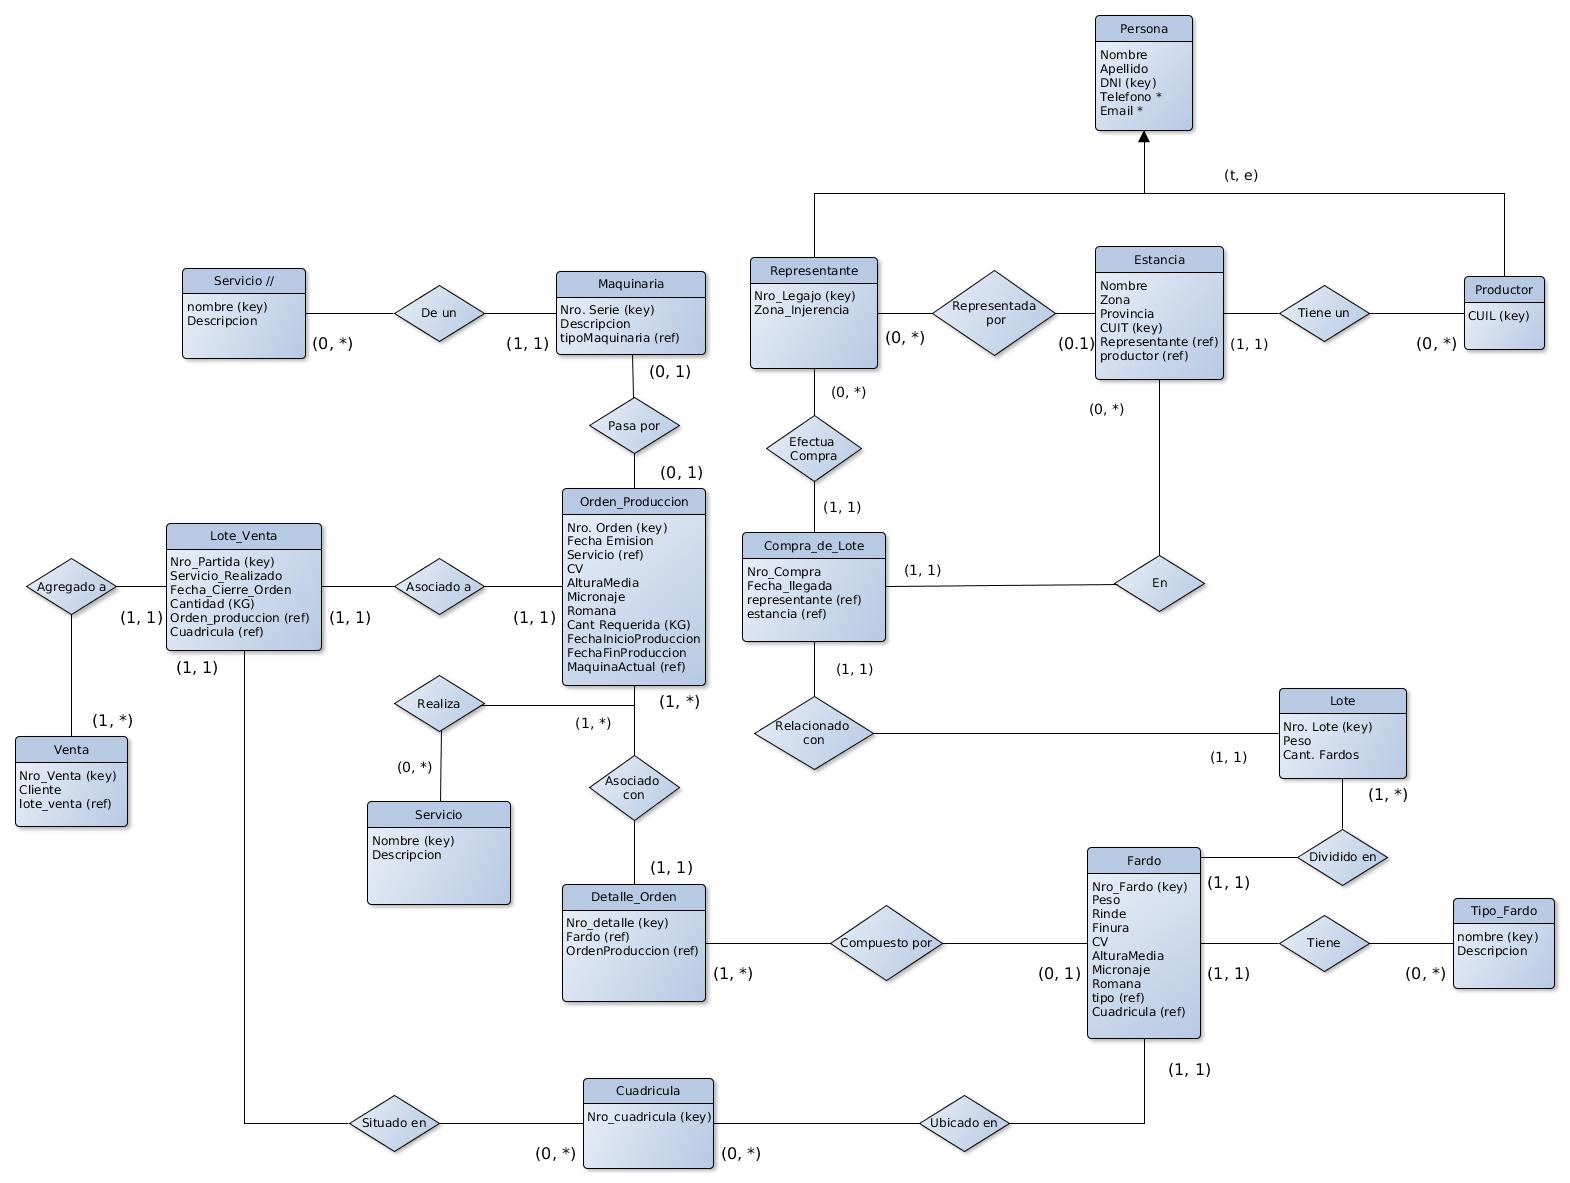
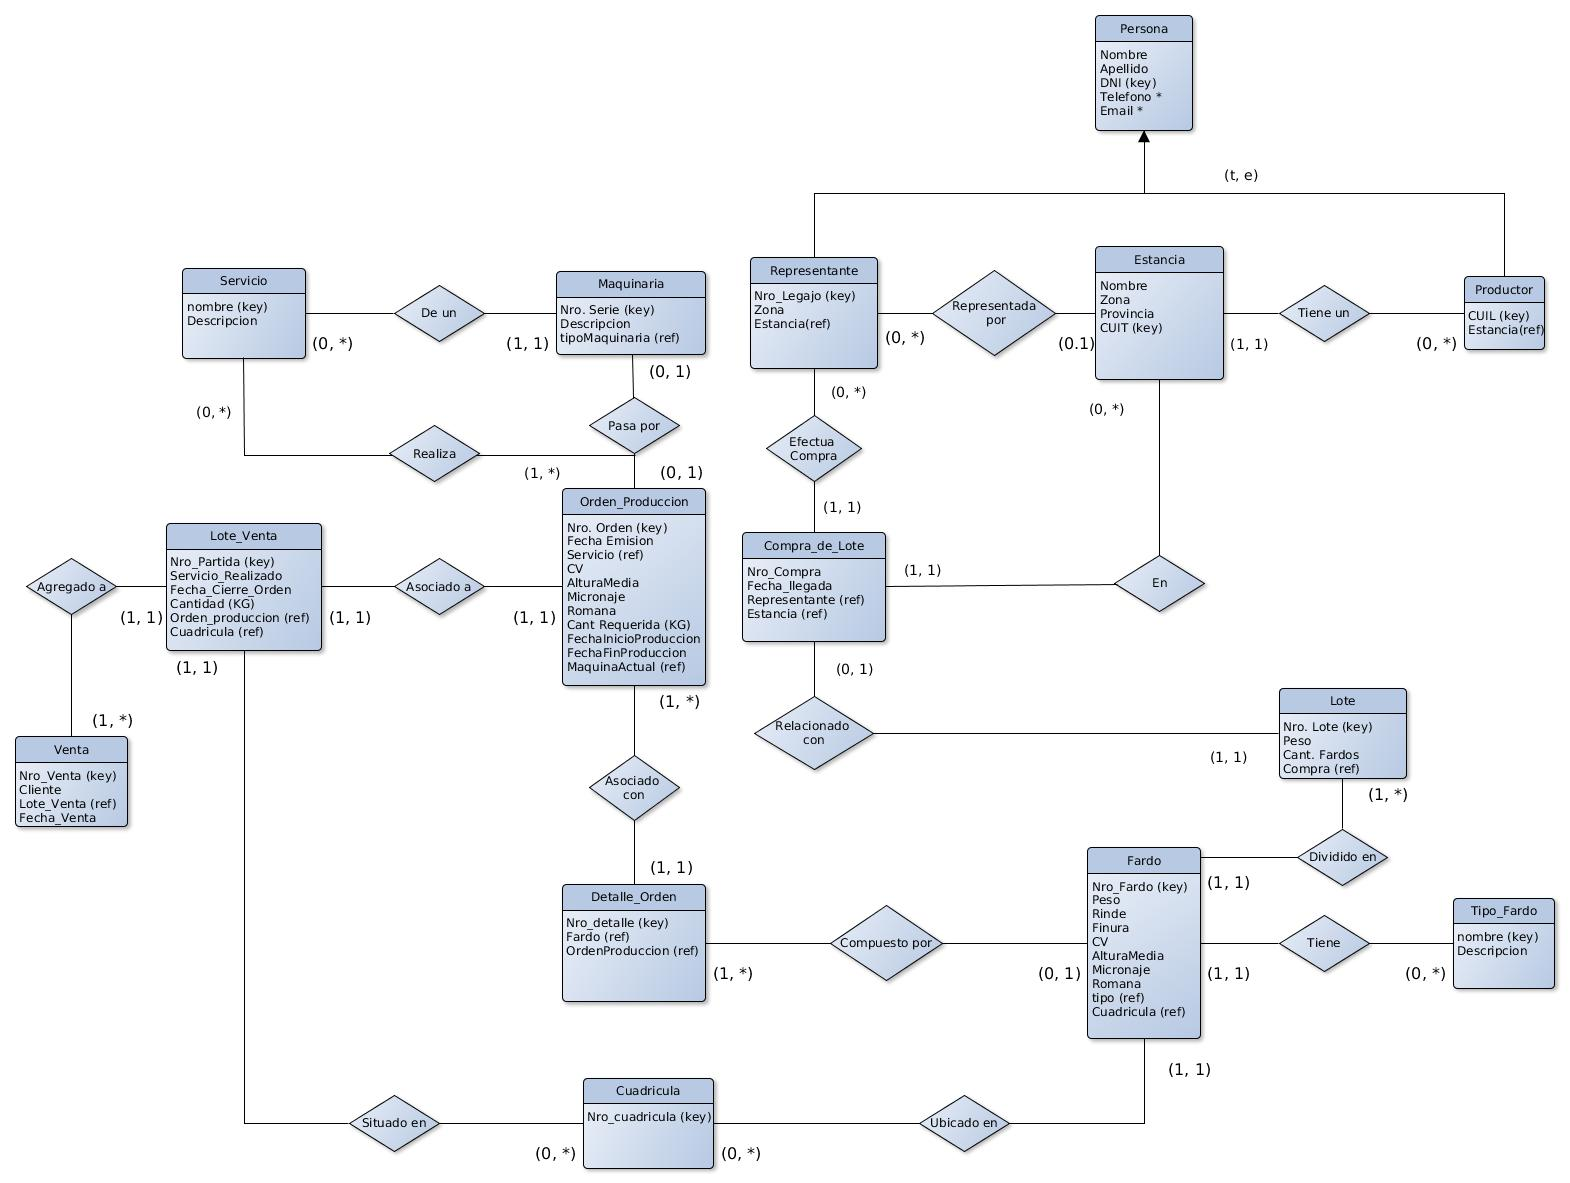
Cambios models & Entidad-Relacion

diff --git a/Django-Desarrollo/pFuhrmann/appWeb/models.py b/Django-Desarrollo/pFuhrmann/appWeb/models.py
@@ -1,9 +1,9 @@
 from django.db import models
 
 class Persona(models.Model):
-    Nombre = models.CharField(max_length=50, primary_key = True)
+    Nombre = models.CharField(max_length=50)
     Apellido = models.CharField(max_length=50)
-    DNI = models.PositiveIntegerField(max_length=50)
+    DNI = models.CharField(max_length=50, primary_key = True)
     Telefono = models.CharField(max_length=50)
     Email = models.EmailField()
     Baja = models.BooleanField(default=False)
@@ -12,15 +12,17 @@ class Persona(models.Model):
         return "%s" % str(str(self.Nombre) + " " + str(self.Apellido))
 
 class Productor (Persona):
-    CUIL = models.PositiveIntegerField(max_length=50, primary_key = True)
-
+    CUIL = models.CharField(max_length=50, primary_key = True)
+    Estancia = models.ForeignKey('Estancia')
+    
     def __str__(self):
         return super(Persona, self)
 
 class Representante(Persona): 
     NroLegajo = models.PositiveIntegerField(max_length=50, primary_key = True)
-    ZonaInjerencia = models.CharField(max_length=50)
-
+    Zona = models.CharField(max_length=50)
+    Estancia = models.ForeignKey('Estancia')
+    
     def __str__(self):
         return super(Persona, self)
 
@@ -46,15 +48,17 @@ class Lote(models.Model):
 class Fardo(models.Model):
     NroFardo = models.AutoField(primary_key = True)
     TipoFardo = models.ForeignKey('TipoFardo')
-    Peso = models.PositiveIntegerField(max_length=50)
-    Rinde = models.CharField(max_length=50)
-    Finura = models.CharField(max_length=50)
-    CoheficienteVariacion = models.PositiveIntegerField(max_length=50)
-    AlturaMedia = models.PositiveIntegerField(max_length=50)
-    Micronaje = models.CharField(max_length=50)
-    Romana = models.CharField(max_length=50)
+    Peso = models.FloatField()
+    Rinde = models.FloatField()
+    Finura = models.FloatField()
+    CV = models.FloatField()
+    AlturaMedia = models.FloatField()
+    Micronaje = models.FloatField()
+    Romana = models.FloatField()
     Cuadricula = models.ForeignKey('Cuadricula')
-    Baja = models.BooleanField(default=False)
+    DetalleOrden = models.ForeignKey('DetalleOrden')
+    Compra = models.OneToOneField('CompraLote')
+
 
     def __unicode__(self):
         return ""
@@ -71,42 +75,41 @@ class CompraLote(models.Model):
     Representante = models.ForeignKey('Representante')
     CantLotes = models.PositiveIntegerField(max_length=50)
     FechaLlegada = models.DateField()
-    Registrada = models.BooleanField(default=False) #Para saber si los fardos ya fueron cargados
     
     def __unicode__(self):
         return ""
 
-class DetalleCompra(models.Model):
-    NroDetalle = models.AutoField(primary_key = True)    
-    Compra = models.ForeignKey('CompraLote')
-    Peso = models.PositiveIntegerField(max_length=50)
-    CantFardos = models.PositiveIntegerField(max_length=50)
-    def __unicode__(self):
-        return ""
 
 class OrdenProduccion(models.Model):
     NroOrden = models.AutoField(primary_key = True)
     FechaEmision = models.DateField(auto_now_add = True)
     CantRequerida = models.PositiveIntegerField(max_length=50)
     Servicio = models.ManyToManyField('Servicio')
+    CV = models.FloatField()
+    AlturaMedia = models.FloatField()
+    Micronaje = models.FloatField()
+    Romana = models.FloatField()
+    FechaInicioProduccion = models.DateField() 
+    FechaFinProduccion = models.DateField() 
+    MaquinaActual = models.ForeignKey('Maquinaria')
     EnProduccion = models.BooleanField(default=False)
     Finalizada = models.BooleanField(default=False)
 
     def __unicode__(self):
         return u"%s - %s" % (self.NroOrden, u", ".join([unicode(s) for s in self.Servicio.all()]))
 
-    
 
 class DetalleOrden(models.Model):
     NroDetalle = models.AutoField(primary_key = True)
-    OrdenProduccion = models.ForeignKey('OrdenProduccion')
+    OrdenProduccion = models.OneToOneField('OrdenProduccion')
     Fardo = models.OneToOneField('Fardo') #Cuando se crea el detalle, tiene que tener asociado 1 fardo
     def __unicode__(self):
         return ""
 
 class Servicio(models.Model):
     Nombre = models.CharField(max_length=50, primary_key = True)
-    
+    Descripcion = models.CharField(max_length=50)
+
     def __unicode__(self):
         return u"%s" % (self.Nombre)
 
@@ -119,7 +122,7 @@ class LoteVenta(models.Model):
     Cuadricula = models.ForeignKey('Cuadricula')
     Servicio = models.ManyToManyField('Servicio')
     Baja = models.BooleanField(default=False)
-    #OrdenProduccion = models.OneToOneField('OrdenProduccion')
+    OrdenProduccion = models.OneToOneField('OrdenProduccion')
     def __unicode__(self):
         return ""
 
@@ -127,7 +130,7 @@ class Venta(models.Model):
     NroVenta = models.AutoField(primary_key = True)
     LoteVenta = models.OneToOneField('LoteVenta')
     Cliente = models.CharField(max_length=50)
-    fechaVenta = models.DateField()
+    FechaVenta = models.DateField()
 
     def __unicode__(self):
         return ""
@@ -140,18 +143,8 @@ class Cuadricula(models.Model):
 
 class Maquinaria(models.Model):
     NroSerie = models.PositiveIntegerField(max_length=50, primary_key = True)
-    tipoMaquinaria = models.ForeignKey('TipoMaquinaria')
+    TipoMaquinaria = models.ForeignKey('Servicio')
     Descripcion = models.CharField(max_length=50)
-    FechaHora = models.DateTimeField()
-    Baja = models.BooleanField(default=False)
 
     def __unicode__(self):
         return u"%s - %s" % (self.tipoMaquinaria, self.NroSerie)
-
-class TipoMaquinaria(models.Model):
-    Nombre = models.CharField(max_length=50, primary_key = True)
-    Descripcion = models.CharField(max_length=50)
-
-    def __unicode__(self):
-        return u"%s" % self.Nombre
-        

diff --git a/Django-Desarrollo/pFuhrmann/appWeb/forms.py b/Django-Desarrollo/pFuhrmann/appWeb/forms.py
@@ -32,7 +32,7 @@ class ventaForm(ModelForm):
 class nuevaOrdenProduccionForm(ModelForm):
     class Meta:
         model = OrdenProduccion
-        exclude = ['EnProduccion', 'Finalizada']
+        exclude = ['EnProduccion', 'Finalizada', 'MaquinaActual']
     def __init__(self, *args, **kwargs):
         super(nuevaOrdenProduccionForm, self).__init__(*args, **kwargs)
         self.helper = FormHelper()

diff --git a/Django-Desarrollo/pFuhrmann/appWeb/admin.py b/Django-Desarrollo/pFuhrmann/appWeb/admin.py
@@ -8,7 +8,6 @@ admin.site.register(Lote)
 admin.site.register(Fardo)
 admin.site.register(TipoFardo)
 admin.site.register(CompraLote)
-admin.site.register(DetalleCompra)
 admin.site.register(OrdenProduccion)
 admin.site.register(DetalleOrden)
 admin.site.register(Servicio)
